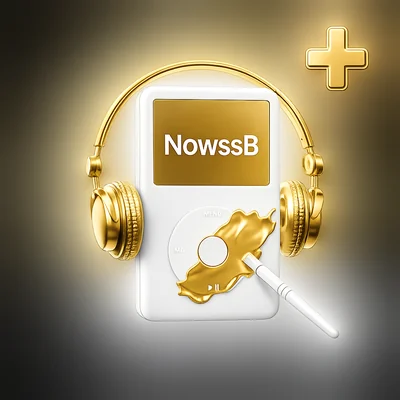
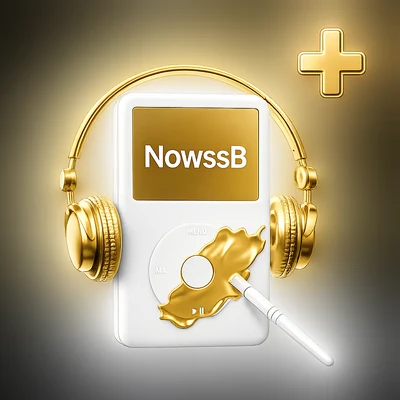
Fix the broken Fashion home: two stray closers, and a card the layout editor never knew about
Two bugs, one screenshot.

The overlap was mine. When I cut the old Fashion Plus section out of
index.html last commit I left two orphan </div> tags behind. The file
shipped with 4452 <div> and 4454 </div>, which closes the home's wrapper
early and stacks every section below the break on top of the ones above —
exactly what you photographed. Balanced at 4452/4452 now, and measured in
the page: 31 children of the home body, zero overlapping pairs.

That mistake does not throw, does not 404 and leaves nothing in the
console — it is invisible until you look at the page, and by then it has
shipped. So tools/build-native.mjs now counts <div>/</div> and <!--/-->
in index.html and refuses to build when they do not match. Proved it fires
by appending a bare <div> and watching the build fail with "4453 opened,
4452 closed".

The second bug is why the card was at the top of the home rather than
where I wrote it. hlApplyLayout() in part062.js re-appends every REGISTERED
section to the wrap in the saved order — so anything missing from that
table gets left behind at the front, whatever its markup position. The
card is registered now, which both puts it where it belongs and lets you
move it in Set As You Like like any other section. Measured: its previous
sibling is .fash-cust-panel, so it sits directly under Customize.

The icon is re-cropped tight to the player and the plus, so the dark
studio vignette around it is gone and it reads clean in its circle like
the rest of them.

diff --git a/index.html b/index.html
@@ -106,7 +106,7 @@ window.addEventListener('appinstalled', function () { window._bipEvent = null; }
 <script type="module" src="app/js/firebase.module.js?v=263"></script>
 <link rel="stylesheet" href="app/app.css?v=312">
 <link rel="stylesheet" href="nowssb-social.css?v=210">
-<link rel="stylesheet" href="nowssb-nm.css?v=632">
+<link rel="stylesheet" href="nowssb-nm.css?v=634">
 <link rel="stylesheet" href="nowssb-player.css?v=201">
 </head>
 <body>
@@ -1604,25 +1604,6 @@ window.addEventListener('appinstalled', function () { window._bipEvent = null; }
     <video data-nwsb-auto muted loop playsinline preload="none" src="https://res.cloudinary.com/eenvubod/video/upload/v1785402438/grok_video_2026-07-30-14-35-05_q3tyzk.mp4"></video>
   </div>
 
-  <!-- ══ FASHION PLUS — the way in ══
-       Small on purpose. The phone, the copy, the switch and the list all
-       live on the page now (#sub-fashion-plus); what belongs on a home is
-       a name, a line and a door. ══ -->
-  <div class="fps-mini" id="fpSection" onclick="fpOpenPage()" role="button" aria-label="Open Fashion Plus">
-    <div class="fps-mini-ic"><img loading="lazy" decoding="async" src="./assets/fashion/fashion-icon.webp" alt=""></div>
-    <div class="fps-mini-txt">
-      <div class="fps-mini-eyebrow">Experience</div>
-      <div class="fps-mini-name">Fashion Plus</div>
-      <div class="fps-mini-sub fp-state-line">Off — pages keep their photographs</div>
-    </div>
-    <span class="tp-enter fps-mini-enter">
-      <span class="tp-enter-lbl">Enter</span>
-      <span class="tp-enter-go"><svg viewBox="0 0 12 12" fill="none"><path d="M2 6H10M7 3L10 6L7 9" stroke="#060c18" stroke-width="1.9" stroke-linecap="square"/></svg></span>
-    </span>
-  </div>
-    </div>
-  </div>
-
 
   <div class="nmh-streak-glass-section">
     <div class="nmh-streak-heading nmh-streak-heading-dark">Start Building Your Streak Today</div>
@@ -1777,6 +1758,23 @@ window.addEventListener('appinstalled', function () { window._bipEvent = null; }
       <div class="cust-rows"></div>
       <div class="cust-scrollbar"><div class="cust-scrollthumb"></div></div>
     </div>
+  </div>
+
+  <!-- ══ FASHION PLUS — the way in ══
+       Small on purpose. The phone, the copy, the switch and the list all
+       live on the page now (#sub-fashion-plus); what belongs on a home is
+       a name, a line and a door. ══ -->
+  <div class="fps-mini" id="fpSection" onclick="fpOpenPage()" role="button" aria-label="Open Fashion Plus">
+    <div class="fps-mini-ic"><img loading="lazy" decoding="async" src="./assets/fashion/fashion-icon.webp" alt=""></div>
+    <div class="fps-mini-txt">
+      <div class="fps-mini-eyebrow">Experience</div>
+      <div class="fps-mini-name">Fashion Plus</div>
+      <div class="fps-mini-sub fp-state-line">Off — pages keep their photographs</div>
+    </div>
+    <span class="tp-enter fps-mini-enter">
+      <span class="tp-enter-lbl">Enter</span>
+      <span class="tp-enter-go"><svg viewBox="0 0 12 12" fill="none"><path d="M2 6H10M7 3L10 6L7 9" stroke="#060c18" stroke-width="1.9" stroke-linecap="square"/></svg></span>
+    </span>
   </div>
 
   <!-- Video banner — below Today's Practice / streak -->
@@ -9972,7 +9970,7 @@ window.addEventListener('appinstalled', function () { window._bipEvent = null; }
 <script src="app/js/part059.js?v=8"></script>
 <script src="app/js/part060.js?v=2"></script>
 <script src="app/js/part061.js?v=8"></script>
-<script src="app/js/part062.js?v=22"></script>
+<script src="app/js/part062.js?v=23"></script>
 <script src="app/js/part063.js?v=4"></script>
 <script src="app/js/part064.js?v=6"></script>
 <script src="app/js/part065.js?v=13"></script>

diff --git a/app/js/part062.js b/app/js/part062.js
@@ -79,6 +79,12 @@
         { k:'tiles',    sel:['.fash-tiles-wrap'],                                   t:S, label:'Home Tiles',            sub:'The four buttons and their tip rail', always:1 },
         { k:'trendwd',  sel:['.fash-trend-wrap'],                                          t:S, label:"Today's Trending",      sub:'The clip and its black banner' },
         { k:'custom',   sel:['.fash-cust-panel'],                                          t:S, label:'Customize',             sub:'Quick Access · Quick Links · Set As You Like' },
+        /* Registered so it lands where it is meant to. Anything NOT in this
+           table keeps its markup position while every registered section is
+           re-appended around it — which puts the stray one at the TOP of the
+           home no matter where it was written. That is exactly what happened
+           to this card. */
+        { k:'fashplus', sel:['.fps-mini'],                                                 t:S, label:'Fashion Plus',          sub:'The door to the motion mode' },
         { k:'shopvid',  sel:['.fash-video-banner:not(.fash-vb-tall):not(.fash-video-banner-search)'], t:B, label:'Store Video', sub:'Shop Now video banner' },
         { k:'rx',       sel:['#rxCardWrap'],                                               t:S, label:'AI Prescription',       sub:'Your daily recommended words' },
         { k:'connect',  sel:['.vb-banner[data-vb="vb5"]', '.fash-connect-wrap'],                                             t:S, label:'NowssB Connect',        sub:'What the social space is' },

diff --git a/sw.js b/sw.js
@@ -1,4 +1,4 @@
-const CACHE = 'nowsbansiu-v800';
+const CACHE = 'nowsbansiu-v801';
 // Separate, stable-named bucket for background-prefetched videos (see
 // app/js/part051.js). Kept OUT of the version-bumped CACHE above so a
 // routine JS/CSS deploy never wipes out videos the user already has warmed —
